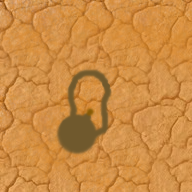
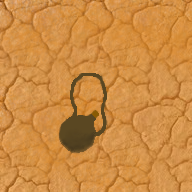
Korjattu pelin rikkonut risteysbugi ja siistitty paria kamalinta grafiikkaa

Changed region(s): [[0.2812, 0.3438, 0.5938, 0.8125]]

diff --git a/js/scripts.js b/js/scripts.js
@@ -559,12 +559,14 @@ $(function(){
 		// Täytä välit tiellä
 		if(ylos>ind){ // Risteys oikea
         	maasto[ylos][0] = tieOikeaYlos[biomiTieOYKuvat[biomi][Math.floor(Math.random()*biomiTieOYKuvat[biomi].length)]];
+			maastomuoto[ylos][0] = 1;
 			for (var i=0; i<ylos; i++){
 				maasto[i][0] = tieVaakaan[biomiTieVaakaanKuvat[biomi][Math.floor(Math.random()*biomiTieVaakaanKuvat[biomi].length)]];
 				maastomuoto[i][0] = 1;
 			}
 		}else{ // Risteys vasen
 			maasto[ylos][0] = tieVasenYlos[biomiTieVYKuvat[biomi][Math.floor(Math.random()*biomiTieVYKuvat[biomi].length)]];
+			maastomuoto[ylos][0] = 1;
 			for (var i=4; i>ylos; i--){
 				maasto[i][0] = tieVaakaan[biomiTieVaakaanKuvat[biomi][Math.floor(Math.random()*biomiTieVaakaanKuvat[biomi].length)]];
 				maastomuoto[i][0] = 1;
